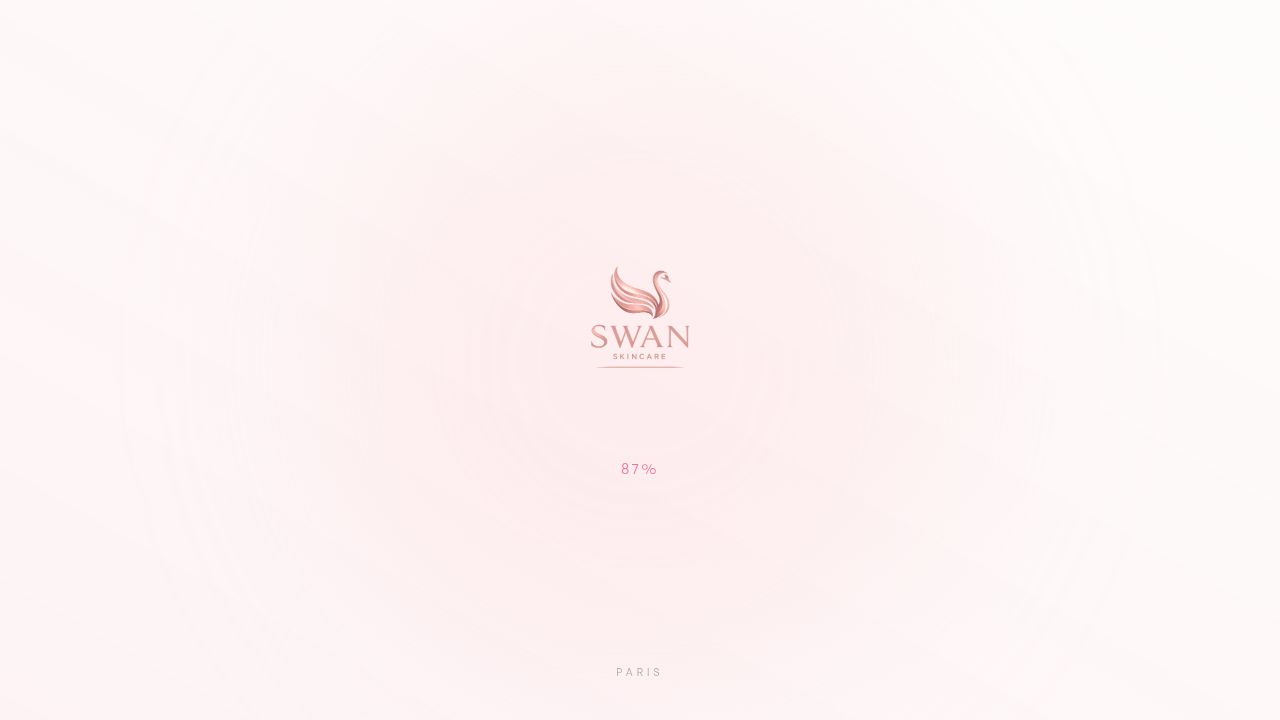
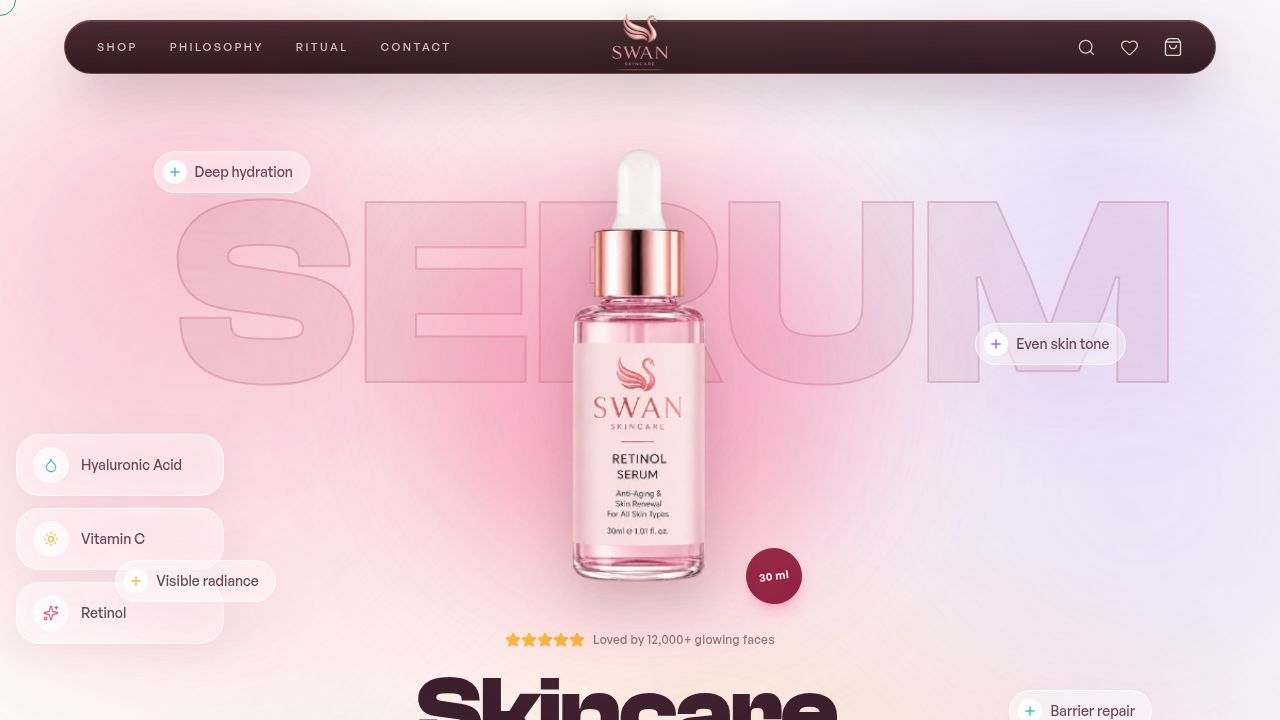
Enhance website hero section and header with modern animations and design
Update hero section to include new animations, a static badge, and adjusted spacing. Refactor header to incorporate a floating pill design with a prominent logo, and implement smooth scrolling by hiding the native scrollbar.

Replit-Commit-Author: Agent
Replit-Commit-Session-Id: 63f27d3b-8d2b-489d-8288-6b454086eee2
Replit-Commit-Checkpoint-Type: full_checkpoint
Replit-Commit-Event-Id: 4fa300c6-1c2e-4a3e-a16e-b983a0e1c980
Replit-Commit-Screenshot-Url: https://storage.googleapis.com/screenshot-production-us-central1/9369c293-ae2c-43e8-9e82-9eeb89cbf50f/63f27d3b-8d2b-489d-8288-6b454086eee2/hLA9esP
Replit-Helium-Checkpoint-Created: true

diff --git a/artifacts/swan-skincare/src/components/Header.tsx b/artifacts/swan-skincare/src/components/Header.tsx
@@ -1,73 +1,107 @@
 import React, { useState } from 'react';
 import { Link } from 'wouter';
 import { useScroll, useMotionValueEvent } from 'framer-motion';
-import { ShoppingBag, Menu, X, Sparkles } from 'lucide-react';
+import { ShoppingBag, Menu, X, Sparkles, Search, Heart } from 'lucide-react';
 import { useCartStore } from '@/store/useCartStore';
 import logo from '@assets/ChatGPT_Image_Jul_3,_2026,_04_16_42_PM_1783077418756.png';
+
+const navLinks = ['Shop', 'Philosophy', 'Ritual', 'Contact'];
 
 export default function Header() {
   const [isScrolled, setIsScrolled] = useState(false);
   const [isMobileMenuOpen, setIsMobileMenuOpen] = useState(false);
   const { scrollY } = useScroll();
   const toggleCart = useCartStore((state) => state.toggleCart);
-  const cartItemsCount = useCartStore((state) => state.items.reduce((acc, item) => acc + item.quantity, 0));
+  const cartItemsCount = useCartStore((state) =>
+    state.items.reduce((acc, item) => acc + item.quantity, 0),
+  );
 
-  useMotionValueEvent(scrollY, "change", (latest) => {
+  useMotionValueEvent(scrollY, 'change', (latest) => {
     setIsScrolled(latest > 40);
   });
 
   return (
     <>
-      <header
-        className={`fixed top-0 left-0 right-0 z-[60] transition-all duration-500 ${
-          isScrolled ? 'py-3 md:py-4 glossy' : 'py-5 md:py-7 bg-transparent'
-        }`}
-      >
-        <div className="container mx-auto px-6 md:px-12 flex items-center justify-between">
-          <div className="flex-1 hidden md:flex items-center gap-10">
-            {['Shop', 'Philosophy', 'Ritual', 'Contact'].map((item) => (
-              <a
-                key={item}
-                href={`#${item.toLowerCase()}`}
-                className="text-[11px] uppercase tracking-[0.22em] font-medium text-foreground/75 hover:text-[hsl(var(--luxury))] relative group overflow-hidden transition-colors"
-              >
-                <span className="relative z-10">{item}</span>
-                <span className="absolute bottom-0 left-0 w-full h-[1.5px] bg-[hsl(var(--luxury))] origin-left scale-x-0 group-hover:scale-x-100 transition-transform duration-300 ease-out" />
-              </a>
-            ))}
-          </div>
+      <header className="fixed top-0 left-0 right-0 z-[60] px-3 sm:px-5 pt-3 md:pt-5">
+        <div className="container mx-auto max-w-6xl">
+          <div
+            className={`header-pill relative rounded-full flex items-center justify-between transition-all duration-500 px-4 sm:px-6 md:px-8 ${
+              isScrolled
+                ? 'is-scrolled py-2.5 md:py-3'
+                : 'py-3 md:py-4'
+            }`}
+          >
+            {/* Left — desktop nav */}
+            <nav className="hidden md:flex items-center gap-8 flex-1">
+              {navLinks.map((item) => (
+                <a
+                  key={item}
+                  href={`#${item.toLowerCase()}`}
+                  className="relative group text-[11px] uppercase tracking-[0.22em] font-medium text-[hsl(40_40%_92%)]/80 hover:text-[hsl(36_62%_70%)] transition-colors"
+                >
+                  <span className="relative z-10">{item}</span>
+                  <span className="absolute -bottom-1 left-0 w-full h-[1.5px] bg-[hsl(36_62%_66%)] origin-left scale-x-0 group-hover:scale-x-100 transition-transform duration-300 ease-out" />
+                </a>
+              ))}
+            </nav>
 
-          <div className="flex-1 flex justify-start md:justify-center">
-            <Link href="/" className="inline-flex">
+            {/* Left — mobile hamburger */}
+            <button
+              className="md:hidden text-[hsl(40_40%_92%)]/90 hover:text-[hsl(36_62%_70%)] active:scale-95 transition-transform"
+              onClick={() => setIsMobileMenuOpen(true)}
+              aria-label="Open menu"
+            >
+              <Menu strokeWidth={1.6} size={22} />
+            </button>
+
+            {/* Center — prominent swan logo (overflows the pill) */}
+            <Link
+              href="/"
+              className="absolute left-1/2 top-1/2 -translate-x-1/2 -translate-y-1/2 inline-flex"
+              aria-label="SWAN Skincare — home"
+            >
               <img
                 src={logo}
-                alt="SWAN"
-                className={`transition-all duration-500 object-contain drop-shadow-md ${isScrolled ? 'h-9 md:h-11' : 'h-12 md:h-16'}`}
+                alt="SWAN Skincare"
+                className={`object-contain drop-shadow-[0_6px_18px_rgba(0,0,0,0.45)] transition-all duration-500 ${
+                  isScrolled ? 'h-16 md:h-[4.5rem]' : 'h-[4.5rem] md:h-24'
+                }`}
               />
             </Link>
-          </div>
 
-          <div className="flex-1 flex items-center justify-end gap-6 md:gap-8">
-            <button
-              onClick={toggleCart}
-              className="relative flex items-center gap-3 text-foreground/80 hover:text-[hsl(var(--luxury))] transition-colors group"
-            >
-              <span className="hidden md:block text-[11px] uppercase tracking-[0.22em] font-medium">Bag</span>
-              <div id="cart-fly-target" className="relative">
-                <ShoppingBag strokeWidth={1.5} size={20} className="group-hover:scale-110 transition-transform" />
-                {cartItemsCount > 0 && (
-                  <span className="absolute -top-1.5 -right-1.5 w-4 h-4 rounded-full bg-[hsl(var(--luxury))] text-white flex items-center justify-center text-[9px] font-bold shadow-lg shadow-primary/30 animate-in zoom-in">
-                    {cartItemsCount}
-                  </span>
-                )}
-              </div>
-            </button>
-            <button
-              className="md:hidden text-foreground/80 hover:text-[hsl(var(--luxury))] active:scale-95 transition-transform"
-              onClick={() => setIsMobileMenuOpen(true)}
-            >
-              <Menu strokeWidth={1.5} size={24} />
-            </button>
+            {/* Right — icons */}
+            <div className="flex items-center justify-end gap-4 sm:gap-5 md:gap-6 flex-1">
+              <button
+                className="hidden sm:inline-flex text-[hsl(40_40%_92%)]/85 hover:text-[hsl(36_62%_70%)] transition-colors"
+                aria-label="Search"
+              >
+                <Search strokeWidth={1.6} size={19} />
+              </button>
+              <button
+                className="hidden sm:inline-flex text-[hsl(40_40%_92%)]/85 hover:text-[hsl(36_62%_70%)] transition-colors"
+                aria-label="Wishlist"
+              >
+                <Heart strokeWidth={1.6} size={19} />
+              </button>
+              <button
+                onClick={toggleCart}
+                className="relative text-[hsl(40_40%_92%)]/90 hover:text-[hsl(36_62%_70%)] transition-colors group"
+                aria-label="Open bag"
+              >
+                <div id="cart-fly-target" className="relative">
+                  <ShoppingBag
+                    strokeWidth={1.6}
+                    size={20}
+                    className="group-hover:scale-110 transition-transform"
+                  />
+                  {cartItemsCount > 0 && (
+                    <span className="absolute -top-1.5 -right-1.5 w-4 h-4 rounded-full bg-[hsl(36_62%_58%)] text-[hsl(344_50%_12%)] flex items-center justify-center text-[9px] font-bold shadow-lg animate-in zoom-in">
+                      {cartItemsCount}
+                    </span>
+                  )}
+                </div>
+              </button>
+            </div>
           </div>
         </div>
       </header>
@@ -82,6 +116,7 @@ export default function Header() {
         <button
           className="absolute top-6 right-6 p-2 text-foreground/80 hover:text-[hsl(var(--luxury))] active:scale-90 transition-transform z-10 glass rounded-full"
           onClick={() => setIsMobileMenuOpen(false)}
+          aria-label="Close menu"
         >
           <X strokeWidth={1.5} size={24} />
         </button>
@@ -97,7 +132,7 @@ export default function Header() {
               style={{
                 transitionDelay: `${i * 50}ms`,
                 transform: isMobileMenuOpen ? 'translateY(0)' : 'translateY(20px)',
-                opacity: isMobileMenuOpen ? 1 : 0
+                opacity: isMobileMenuOpen ? 1 : 0,
               }}
             >
               {item}

diff --git a/artifacts/swan-skincare/src/index.css b/artifacts/swan-skincare/src/index.css
@@ -190,6 +190,45 @@
   color: hsl(var(--foreground));
 }
 
+/* ---------- Floating brand header pill ---------- */
+.header-pill {
+  background: linear-gradient(
+    180deg,
+    hsl(344 42% 15% / 0.90) 0%,
+    hsl(344 48% 10% / 0.94) 100%
+  );
+  backdrop-filter: blur(22px) saturate(160%);
+  -webkit-backdrop-filter: blur(22px) saturate(160%);
+  border: 1px solid hsl(36 55% 60% / 0.32);
+  box-shadow:
+    0 22px 55px -16px rgba(70, 16, 38, 0.48),
+    inset 0 1px 0 hsl(36 65% 72% / 0.20);
+}
+.header-pill.is-scrolled {
+  background: linear-gradient(
+    180deg,
+    hsl(344 44% 12% / 0.95) 0%,
+    hsl(344 50% 8% / 0.97) 100%
+  );
+  box-shadow:
+    0 18px 44px -14px rgba(60, 12, 32, 0.55),
+    inset 0 1px 0 hsl(36 65% 72% / 0.22);
+}
+
+/* ---------- Hide native scrollbar (Lenis drives smooth scroll) ---------- */
+html,
+body {
+  scrollbar-width: none;
+  -ms-overflow-style: none;
+}
+html::-webkit-scrollbar,
+body::-webkit-scrollbar,
+.lenis::-webkit-scrollbar {
+  width: 0;
+  height: 0;
+  display: none;
+}
+
 /* ---------- Lenis smooth scroll ---------- */
 html.lenis, html.lenis body {
   height: auto;

diff --git a/artifacts/swan-skincare/src/components/Hero.tsx b/artifacts/swan-skincare/src/components/Hero.tsx
@@ -68,8 +68,9 @@ export default function Hero({ isLoading }: { isLoading: boolean }) {
     const ctx = gsap.context(() => {
       const tl = gsap.timeline({ defaults: { ease: 'power3.out' } });
 
-      tl.from('[data-hero-bgword]', { opacity: 0, y: 150, duration: 1.3, ease: 'power4.out' }, 0)
+      tl.from('[data-hero-bgword]', { opacity: 0, y: 190, filter: 'blur(6px)', duration: 1.4, ease: 'power4.out' }, 0)
         .from('[data-hero-line]', { yPercent: 120, opacity: 0, duration: 1, stagger: 0.12 }, 0.15)
+        .from('[data-hero-badge]', { opacity: 0, scale: 0.6, duration: 0.7, ease: 'back.out(2)' }, 0.9)
         .from('[data-hero-sub]', { y: 50, opacity: 0, duration: 0.9, stagger: 0.1 }, 0.5)
         .from('[data-hero-cta]', { y: 40, opacity: 0, duration: 0.8, stagger: 0.1 }, 0.7)
         .from('[data-hero-callout]', { y: 60, opacity: 0, duration: 0.8, stagger: 0.12 }, 0.55)
@@ -83,7 +84,7 @@ export default function Hero({ isLoading }: { isLoading: boolean }) {
   return (
     <section
       ref={containerRef}
-      className="relative w-full min-h-[100svh] overflow-hidden bg-background bg-aurora pt-28 pb-16"
+      className="relative w-full min-h-[100svh] overflow-hidden bg-background bg-aurora pt-36 md:pt-32 pb-16"
     >
       {/* Colorful ambient orbs */}
       <div className="absolute inset-0 pointer-events-none z-0">
@@ -143,12 +144,20 @@ export default function Hero({ isLoading }: { isLoading: boolean }) {
           <div className="absolute w-[62vw] max-w-[420px] aspect-square rounded-full bg-[hsl(var(--c-rose)/0.24)] blur-[80px]" />
           <div
             data-bottle-slot="0"
-            className="relative w-[54vw] max-w-[300px] md:max-w-[340px] aspect-[0.72]"
-          />
+            className="relative w-[52vw] max-w-[240px] md:max-w-[340px] aspect-[0.72]"
+          >
+            {/* Static "30 ml" badge — stays in the hero, does not travel with the bottle */}
+            <span
+              data-hero-badge
+              className="absolute bottom-1 right-0 sm:right-2 z-20 grid place-items-center w-12 h-12 md:w-14 md:h-14 rounded-full bg-[hsl(var(--luxury))] text-white text-[10px] md:text-[11px] font-semibold tracking-wide rotate-[-8deg] shadow-lg shadow-primary/30"
+            >
+              30 ml
+            </span>
+          </div>
         </div>
 
         {/* Bold headline (rises from below) */}
-        <div className="text-center px-6 mt-8 md:mt-6 max-w-3xl">
+        <div className="text-center px-6 mt-12 md:mt-6 max-w-3xl">
           <div className="flex items-center justify-center gap-2 mb-5" data-hero-sub>
             <span className="flex text-[hsl(var(--c-amber))]">
               {[...Array(5)].map((_, i) => (

diff --git a/artifacts/swan-skincare/src/components/TravelingBottle.tsx b/artifacts/swan-skincare/src/components/TravelingBottle.tsx
@@ -111,9 +111,11 @@ export default function TravelingBottle({ isLoading }: { isLoading: boolean }) {
       if (!enteredRef.current) {
         enteredRef.current = true;
         gsap.from(entranceRef.current, {
-          y: -220,
+          y: -280,
           opacity: 0,
-          duration: 1.3,
+          scale: 0.82,
+          filter: 'blur(10px)',
+          duration: 1.5,
           ease: 'power4.out',
         });
         gsap.to(floatRef.current, {
@@ -187,9 +189,6 @@ export default function TravelingBottle({ isLoading }: { isLoading: boolean }) {
               className="relative w-full h-auto drop-shadow-2xl select-none"
               draggable={false}
             />
-            <span className="absolute -bottom-1 right-3 z-20 grid place-items-center w-14 h-14 rounded-full bg-foreground text-background text-[11px] font-semibold tracking-wide rotate-[-8deg]">
-              30 ml
-            </span>
           </div>
         </div>
       </div>

diff --git a/.agents/memory/swan-header-logo.md b/.agents/memory/swan-header-logo.md
@@ -1,0 +1,20 @@
+---
+name: SWAN header & logo contrast
+description: Why the SWAN header uses a dark wine-tinted floating pill even though the site theme is light.
+---
+
+# SWAN header & logo contrast
+
+**Rule:** The brand logo (`ChatGPT_Image_..._1783077418756.png`) is a rose-gold swan
+on transparent — it is LOW contrast on the site's warm-white/light theme. Any surface
+hosting it prominently must be dark. The header is a floating rounded-full pill
+(`.header-pill` in `index.css`) with a deep rose-wine tinted glass + gold border, and a
+large centered logo that overflows the pill; nav/icons use cream text.
+
+**Why:** On the light hero the rose-gold logo washes out and looks tiny/weak (user
+complaint). A dark, on-brand (wine, not black) backdrop makes it pop while staying
+consistent with the luxury palette. The reference the user gave was a dark pill header.
+
+**How to apply:** If you restyle the header or place the logo elsewhere, keep a dark
+backing behind it (or swap to a darker logo variant). Don't put the rose-gold logo
+directly on `--background`. The bag icon must keep `id="cart-fly-target"` for fly-to-cart.

diff --git a/.agents/memory/MEMORY.md b/.agents/memory/MEMORY.md
@@ -1,1 +1,2 @@
 - [Scroll-linked element travel/landing (GSAP)](scroll-element-landing.md) — to make a fixed element "land" into a normal-flow slot, measure the slot's live rect each frame; never animate to fixed viewport percentages.
+- [SWAN header/logo contrast](swan-header-logo.md) — the rose-gold swan logo is low-contrast on the light theme; keep it on a dark surface (wine-tinted pill) so it reads.